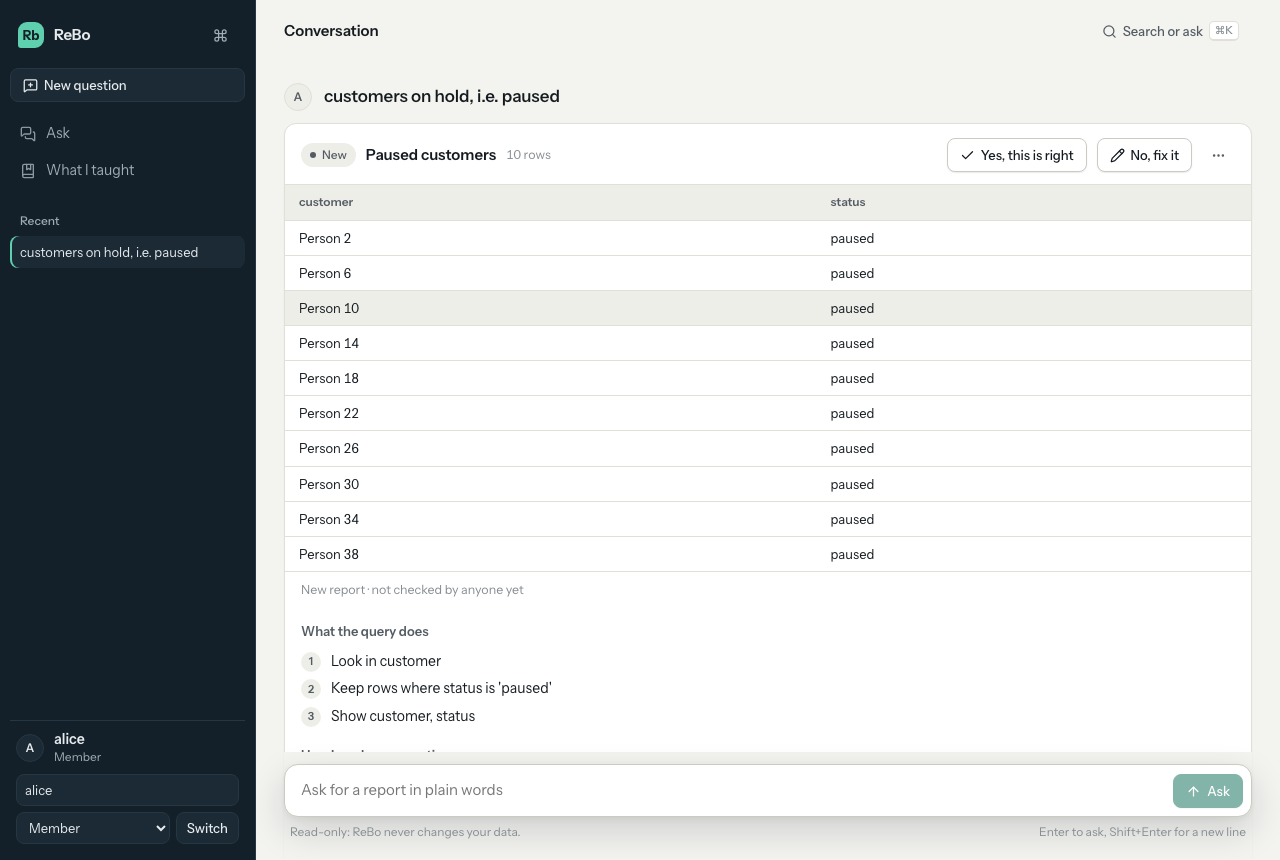
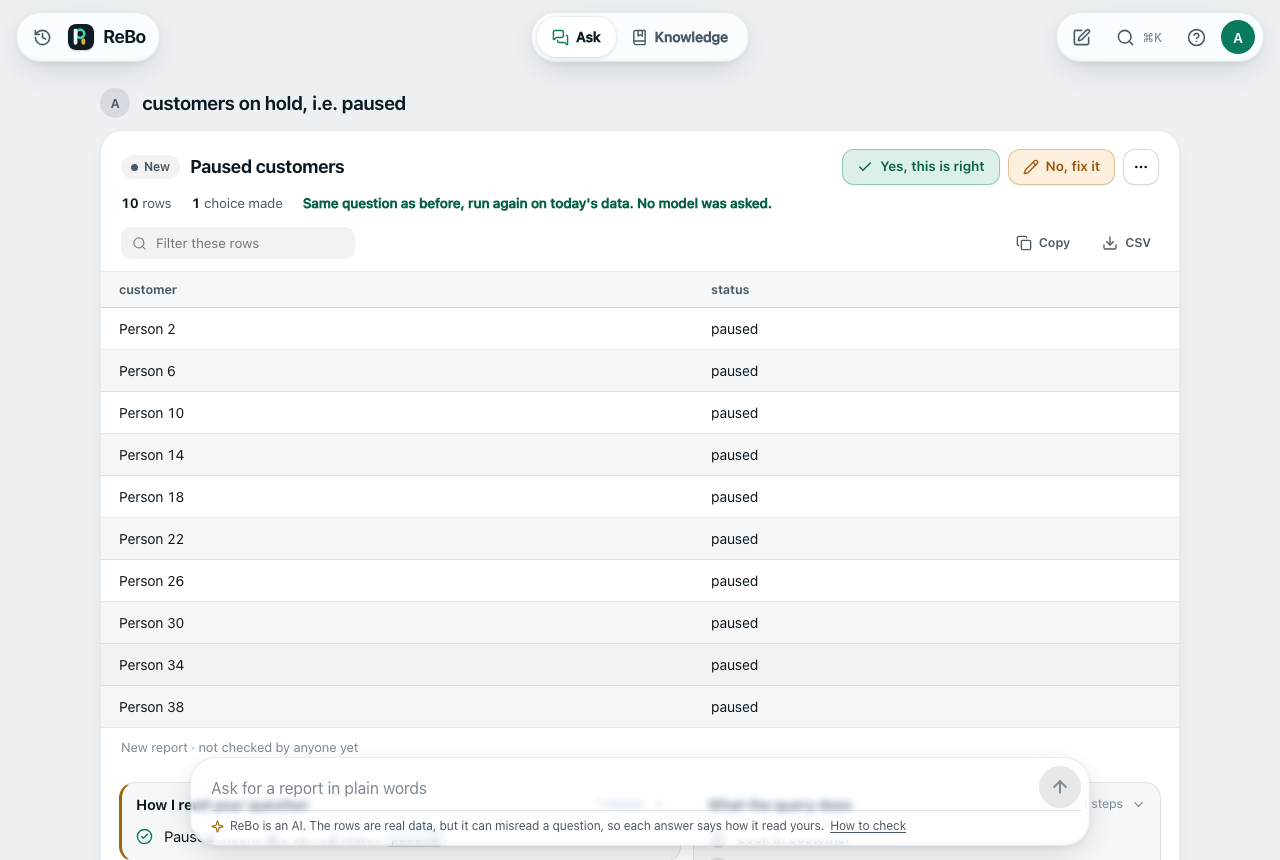
docs: README gallery with the new design (start, dark, You, Help); screenshots regenerated

diff --git a/README.md b/README.md
@@ -29,12 +29,22 @@
 <table>
   <tr>
     <td width="50%" align="center">
-      <img src="docs/screenshots/05-clarification.png" alt="A clarification with options" width="100%"><br>
-      <sub><i>When a question has two readings, it asks once, with the options as buttons.</i></sub>
+      <img src="docs/screenshots/01-start.png" alt="The start page" width="100%"><br>
+      <sub><i>Start: Liquid Glass bar and composer, known reports, the AI notice in plain words.</i></sub>
     </td>
     <td width="50%" align="center">
-      <img src="docs/screenshots/06-what-i-taught.png" alt="What I taught" width="100%"><br>
-      <sub><i>What I taught: everything ReBo learned from you, editable and undoable.</i></sub>
+      <img src="docs/screenshots/15-dark-answer.png" alt="An answer in dark mode" width="100%"><br>
+      <sub><i>Dark mode: the same glass, solid readable content underneath.</i></sub>
+    </td>
+  </tr>
+  <tr>
+    <td width="50%" align="center">
+      <img src="docs/screenshots/12-you.png" alt="The You page" width="100%"><br>
+      <sub><i>You: role, pinned and scheduled reports, shortcuts, how ReBo looks for you.</i></sub>
+    </td>
+    <td width="50%" align="center">
+      <img src="docs/screenshots/13-help.png" alt="Help" width="100%"><br>
+      <sub><i>Help: every feature in short sections, with links and "Try it" questions.</i></sub>
     </td>
   </tr>
   <tr>
@@ -74,6 +84,7 @@ and can be undone.
 
 | Area | What you get |
 |------|--------------|
+| **Design** | Liquid Glass navigation (per-element lensing, pointer-lit rims, scroll-edge blur) over solid, readable content; light and dark; a Help page and a You page. [doc 25](docs/25-brand-and-design.md) |
 | **Asking** | Plain-language questions, live progress, sortable results, CSV, follow-up chips, one clarification when a question has two readings, answers rendered as Markdown. |
 | **Checking an answer** | A trust label (verified, yours, from saved knowledge, new), "What the query does" as plain steps generated from the query itself, "How I read your question", and the query on demand. |
 | **Learning** | Confirm or fix in words; "Remember this?" notes; personal defaults; terms, rules and joins taught in the chat. Personal first, shared by evidence. |
@@ -173,6 +184,7 @@ Claims cite a results file (`fixtures/*/eval_results_*.json`); details in [docs/
 | [Learning and trust](docs/05-learning-and-trust.md) | How knowledge is learned, shared, made stale and undone. |
 | [SQL safety](docs/07-sql-safety.md) | The walls between a question and a write. |
 | [Web app and API](docs/10-api-and-ui.md) | Every route, the UI, design decisions. |
+| [Brand and design](docs/25-brand-and-design.md) | The mark, colours, voice, Liquid Glass. |
 | [Evals and observability](docs/11-evals-and-observability.md) | How accuracy is measured and traced. |
 | [Operations](OPERATIONS.md) | Day-to-day running: start, back up, upgrade, roles. |
 | [Contributing](CONTRIBUTING.md) | Checks, evals, commit rules. |
@@ -187,7 +199,7 @@ Claims cite a results file (`fixtures/*/eval_results_*.json`); details in [docs/
 | Retrieval | SQLite FTS5 or Postgres full text, **fastembed** or LM Studio embeddings, **pgvector**, reciprocal rank fusion |
 | Server | **FastAPI**, AG-UI events, MCP, lease-based background jobs |
 | State | **SQLite** or **Postgres**, Alembic migrations run at start-up |
-| Web app | **React 19**, react-aria-components, TanStack Query, Observable Plot, cmdk, react-markdown |
+| Web app | **React 19**, Liquid Glass (SVG lensing), react-aria-components, TanStack Query, Observable Plot, cmdk, react-markdown |
 | Observability | **Arize Phoenix** over OpenTelemetry, feedback and eval verdicts as trace annotations |
 | Login | **oauth2-proxy** with any OIDC provider (Pocket ID example in `deploy/auth/`) |
 
